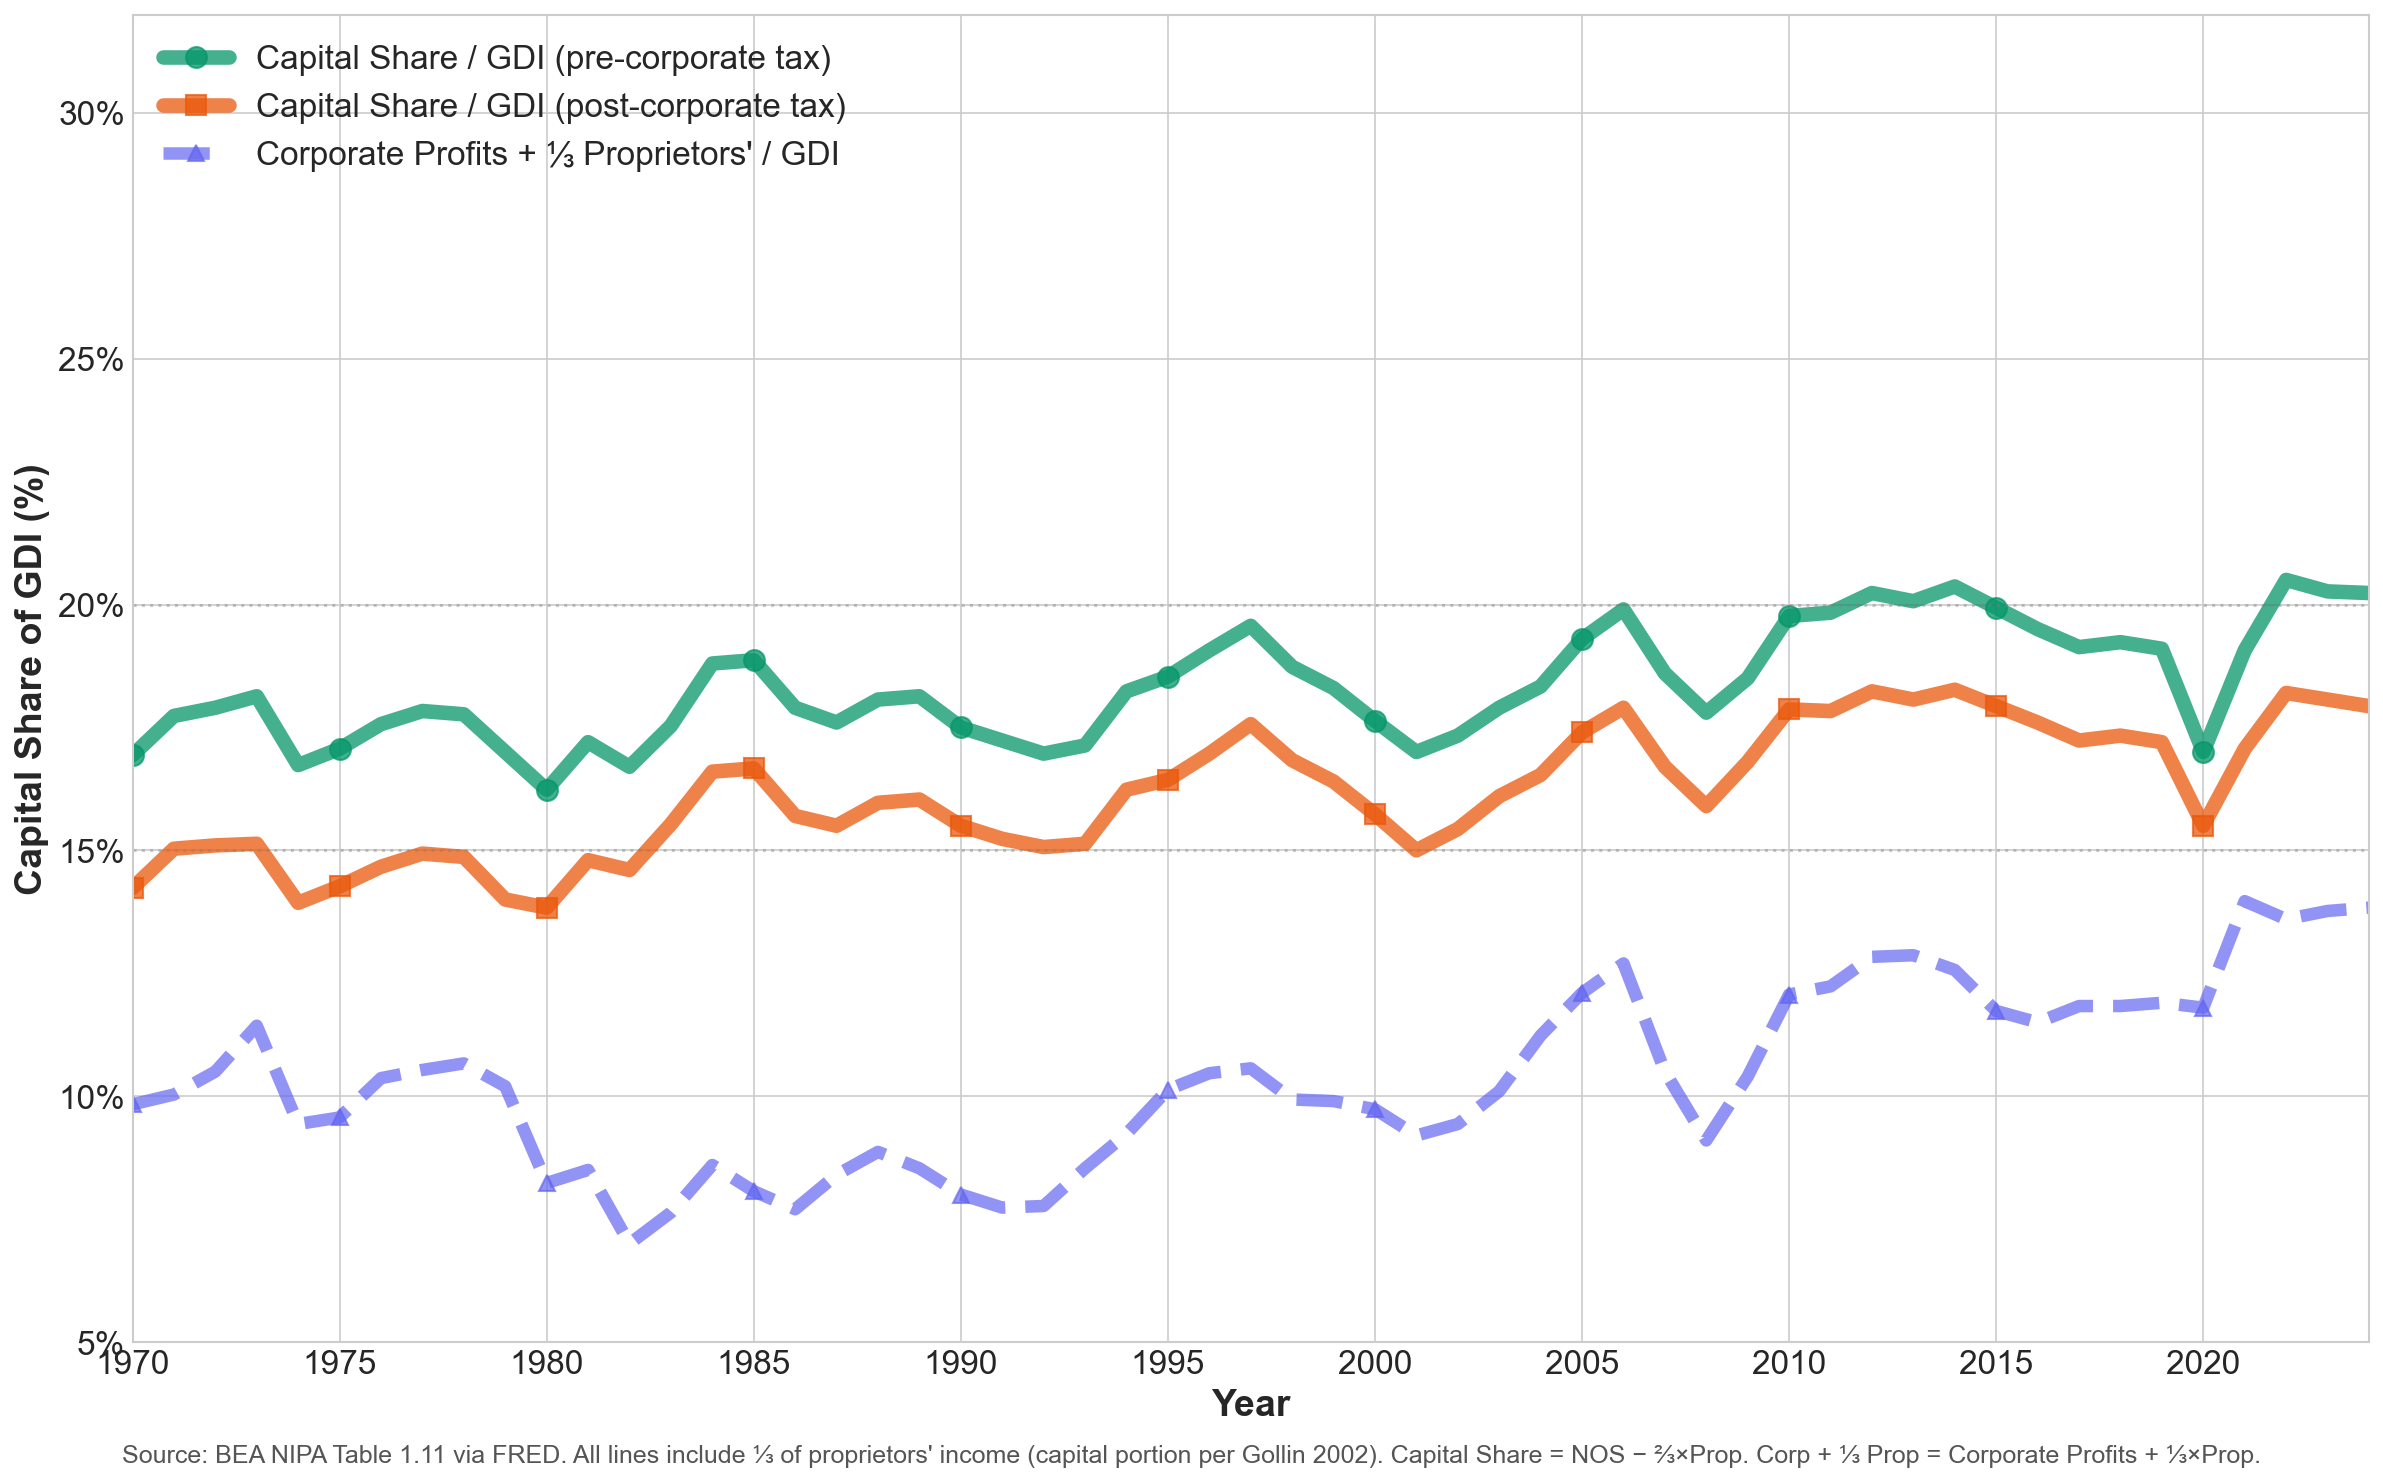
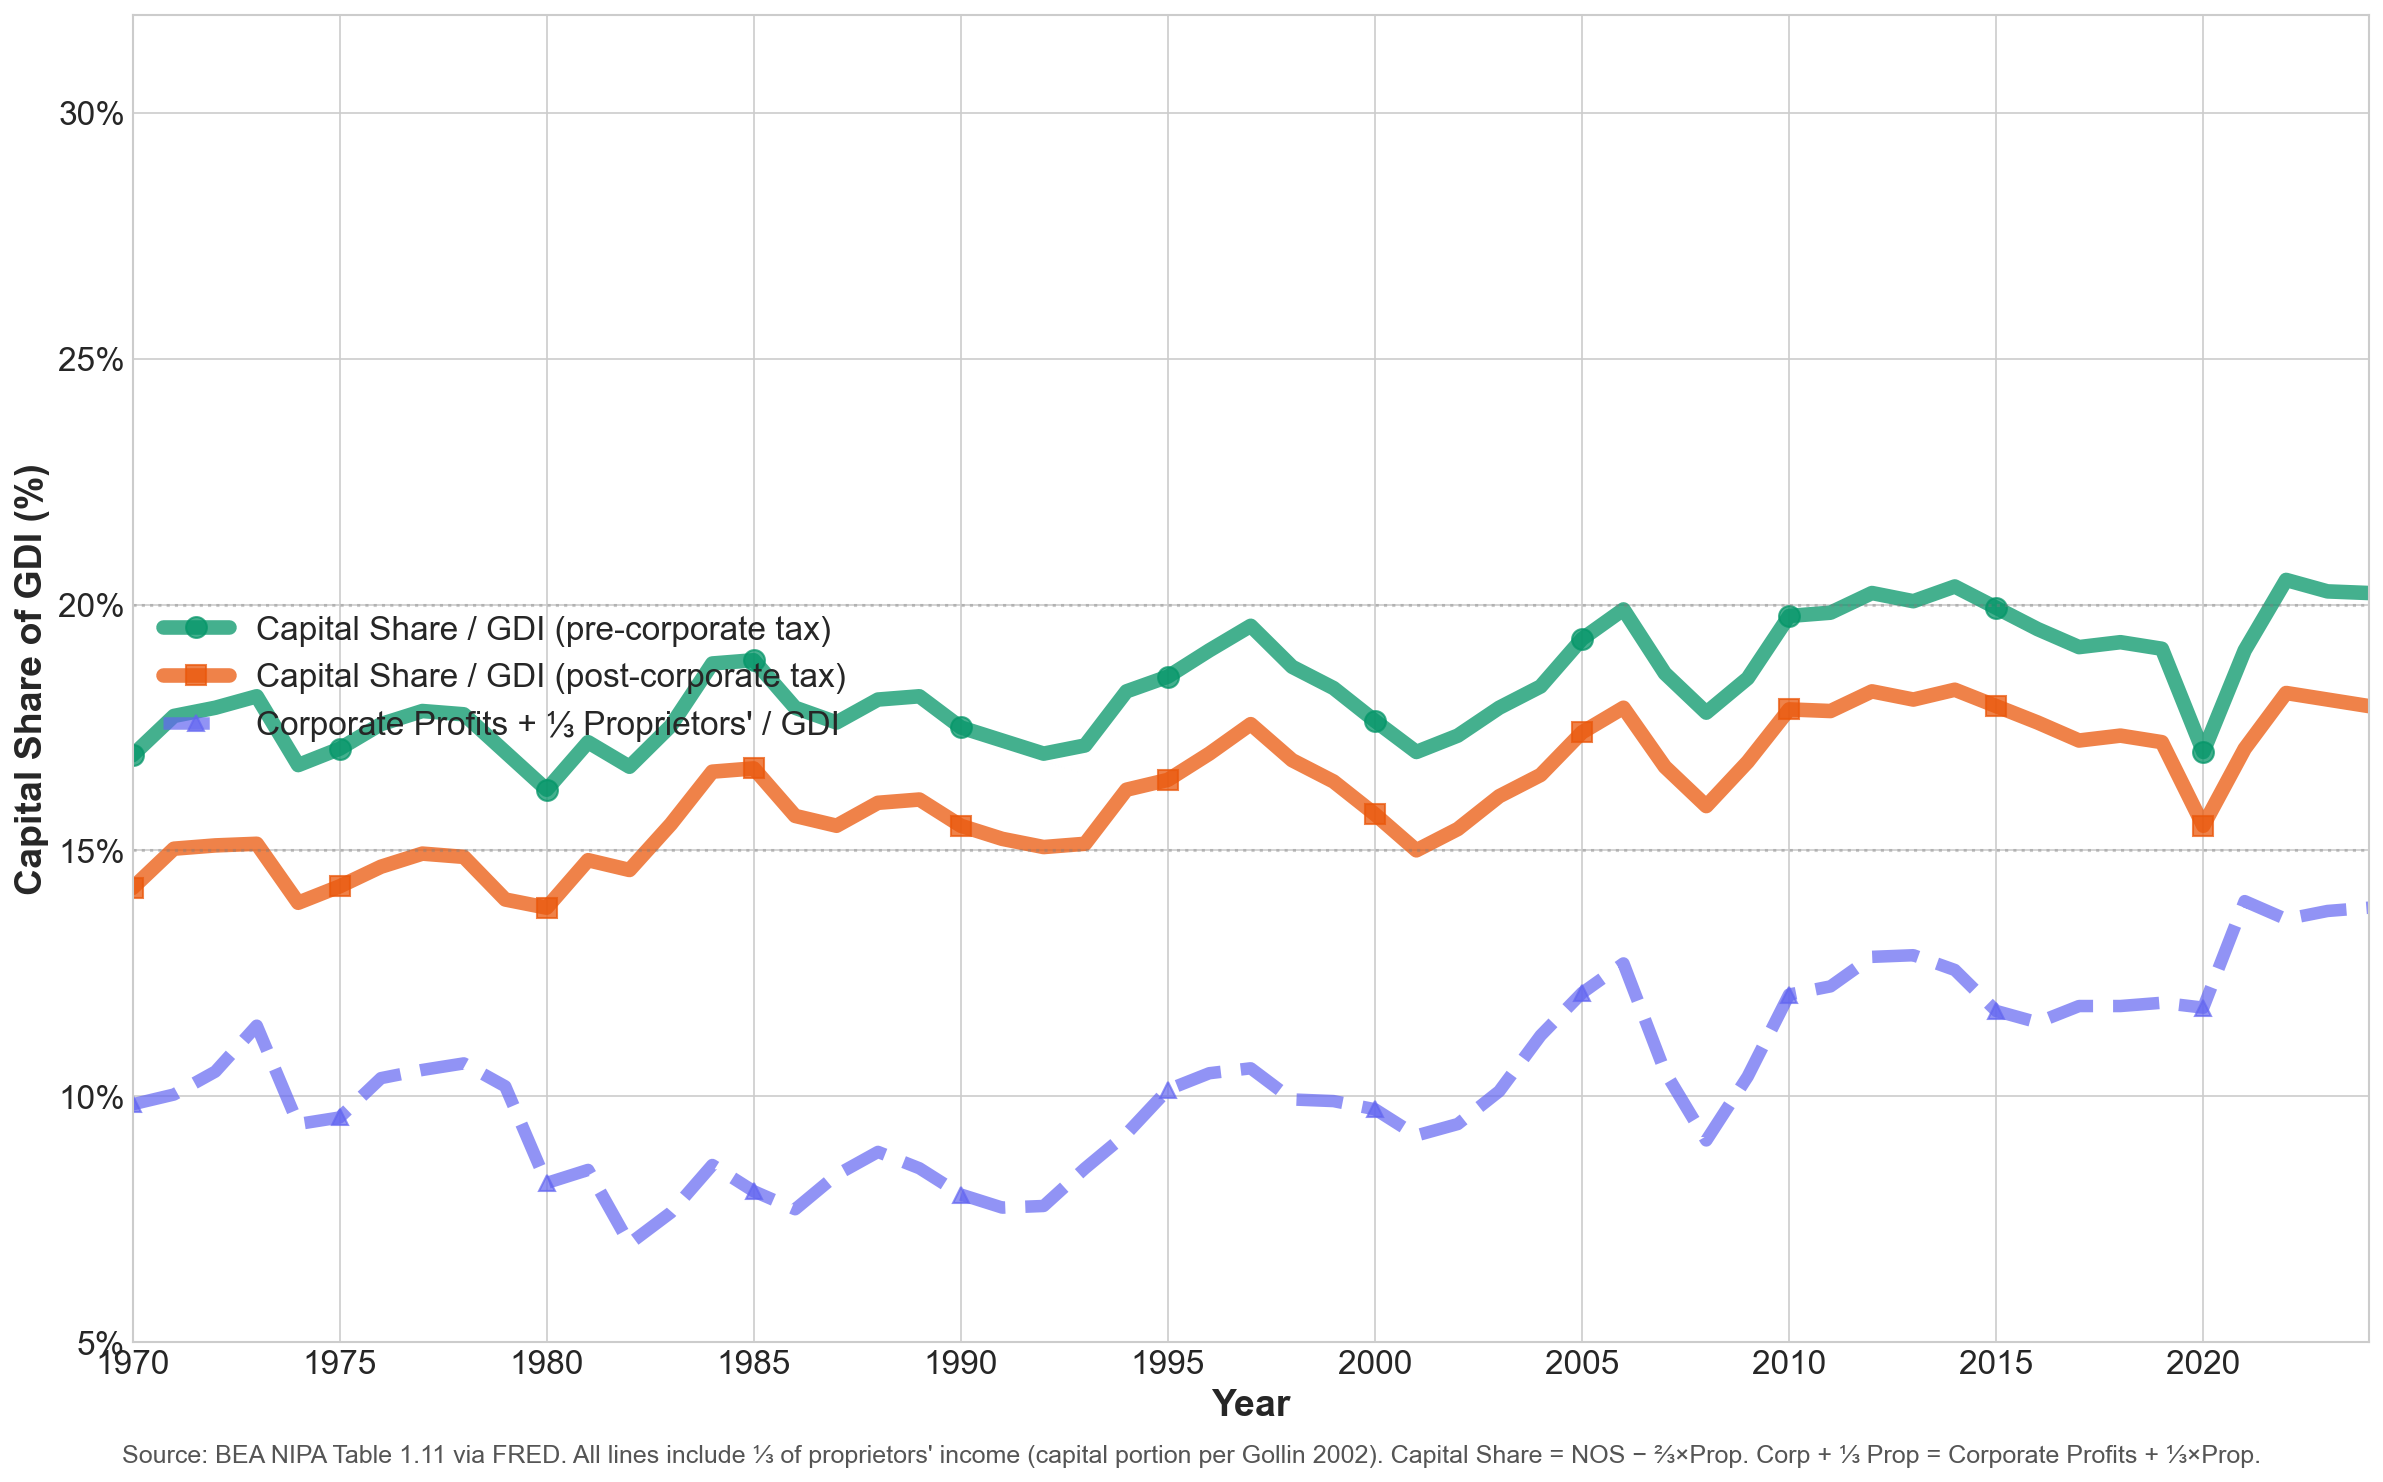
Figure 3: Lower legend position to center left

Changed region(s): [[0.0621, 0.4035, 0.3416, 0.4966], [0.0621, 0.031, 0.3416, 0.1242]]

diff --git a/generate_chart.py b/generate_chart.py
@@ -419,7 +419,7 @@ def create_capital_share_chart():
     ax.yaxis.set_major_formatter(mtick.PercentFormatter(decimals=0))
 
     # Legend
-    ax.legend(loc='upper left', fontsize=LEGEND_SIZE, framealpha=0.95)
+    ax.legend(loc='center left', fontsize=LEGEND_SIZE, framealpha=0.95)
 
     # Source note
     fig.text(0.5, 0.02,
